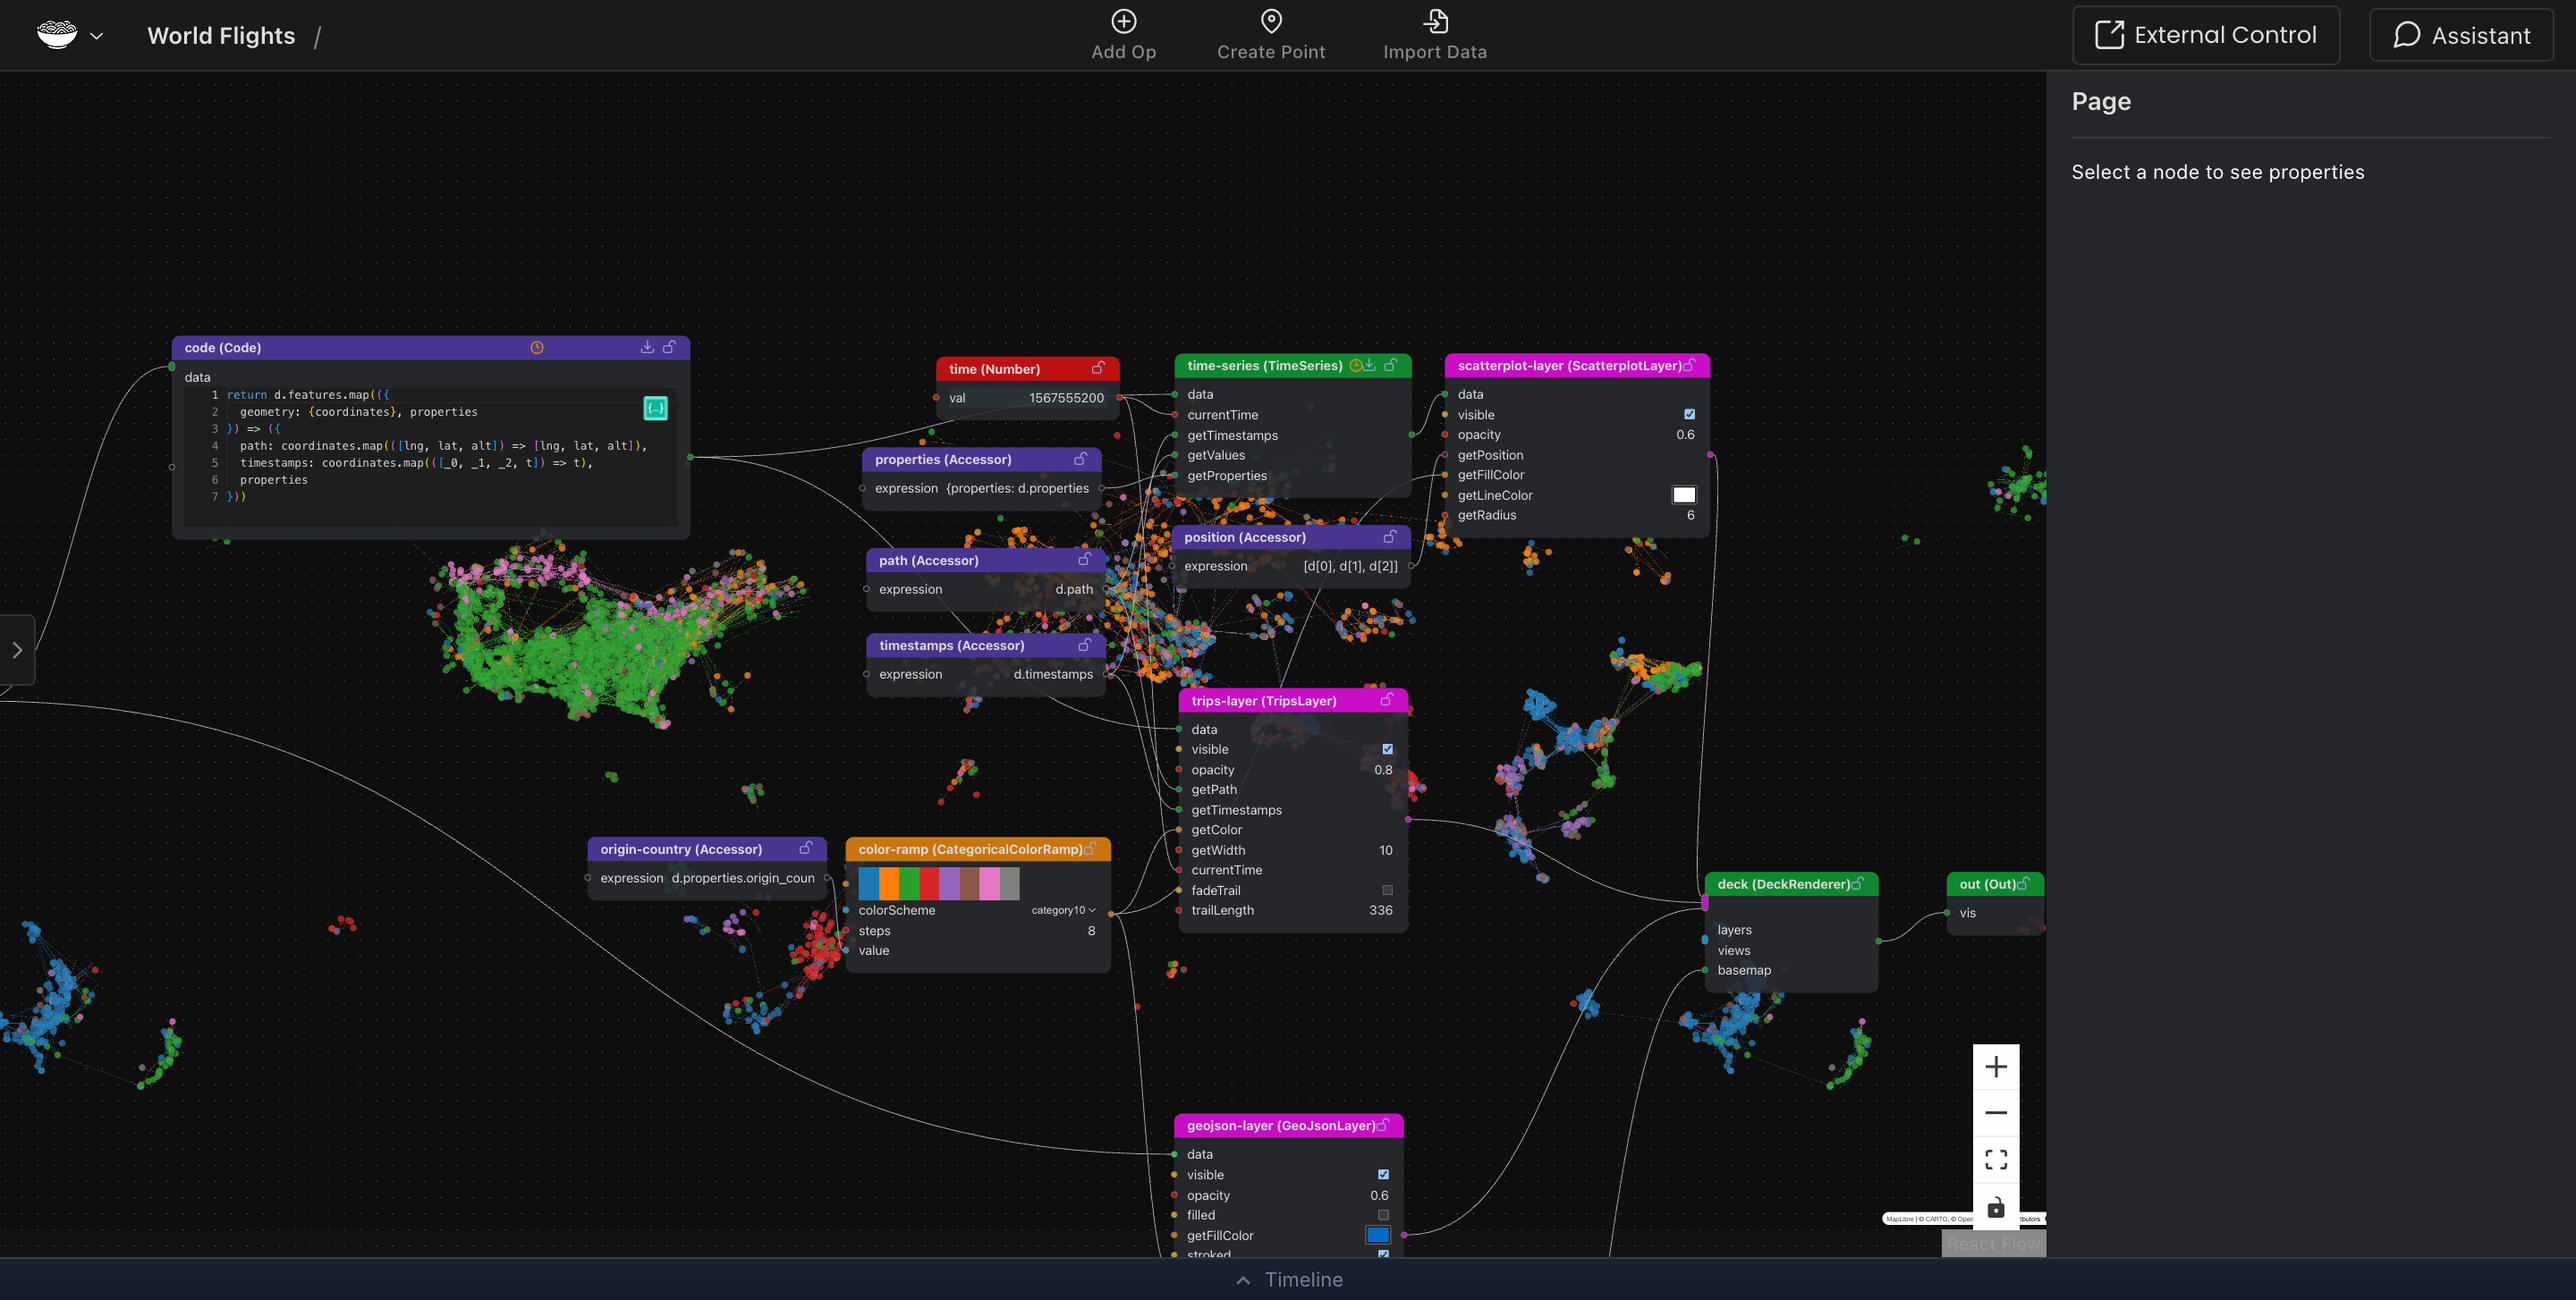
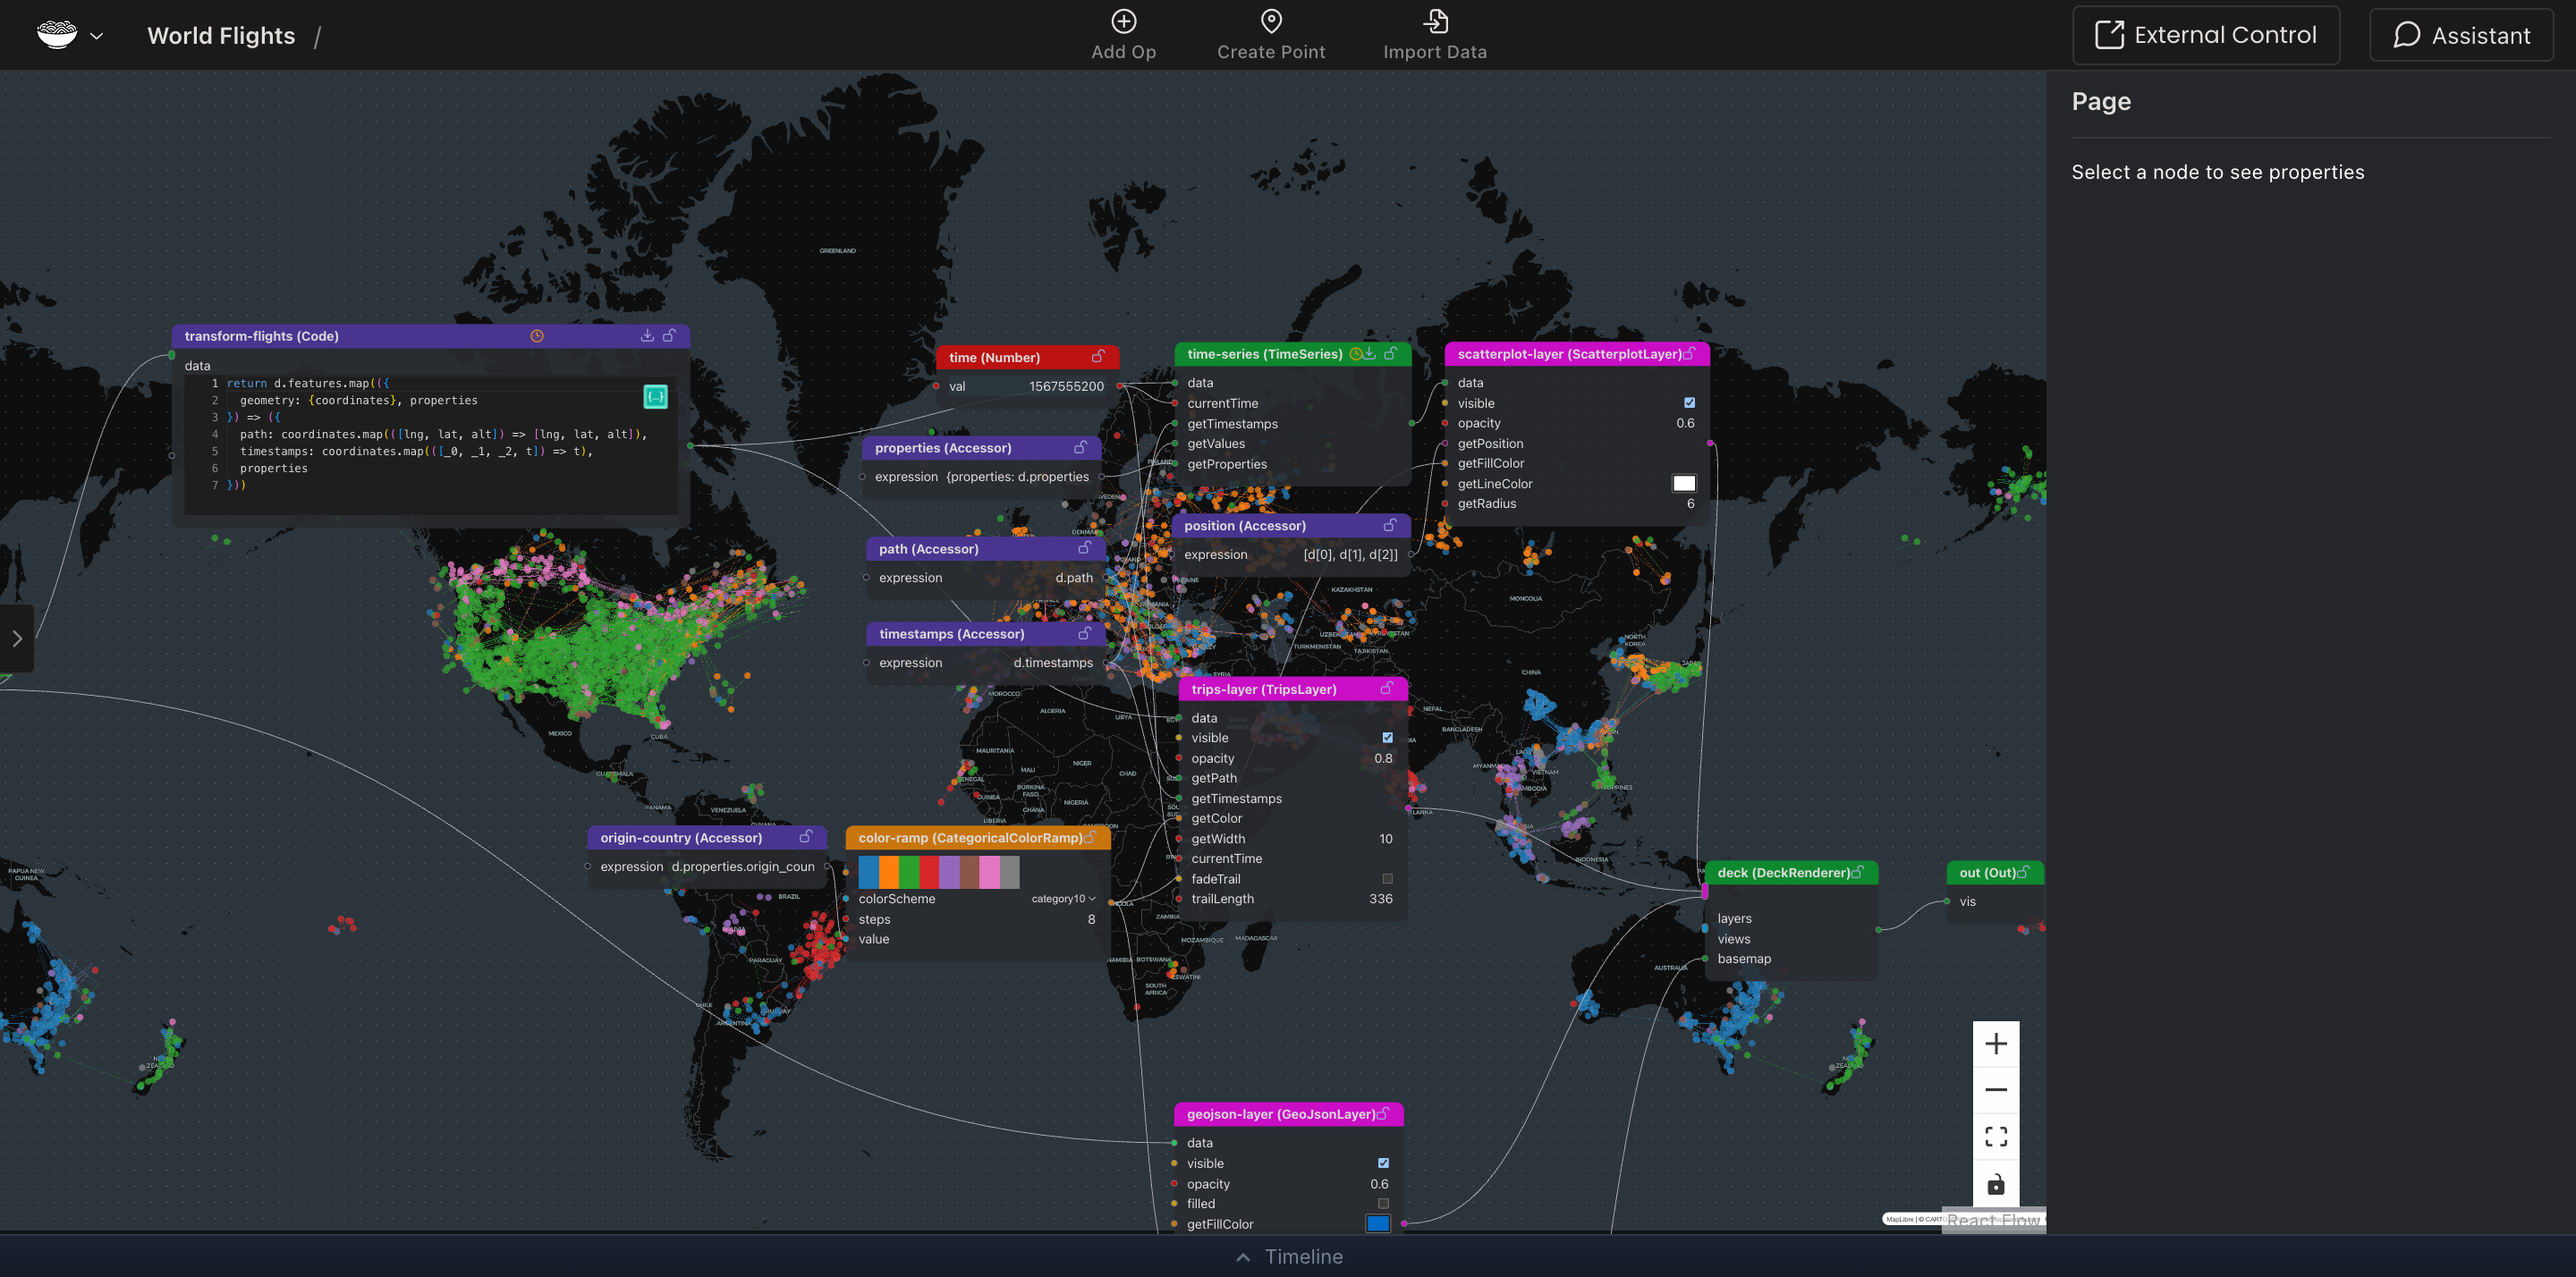
Rename generic node IDs to semantic names in example projects
Renamed 14 generic node IDs (e.g., duckdb-0, accessor-2) to semantic names
across 5 example projects for improved readability and maintainability.

Changes:
- chargers: 8 nodes renamed (charger-query, charger-bounds, charger-points, etc.)
- orbit: 3 nodes renamed (camera, scene, dummy-data)
- nyc-census: 1 node renamed (population-to-elevation)
- world-flights: 1 node renamed (transform-flights)
- custom-maplibre-layer-test: 1 node renamed (test-layer)

All node IDs, edge references, and timeline keys updated. Regenerated website
screenshots for chargers and world-flights examples to reflect new node names.

Added validate-examples.js script to enforce semantic naming in pre-commit hook.

diff --git a/scripts/validate-examples.js b/scripts/validate-examples.js
@@ -1,0 +1,70 @@
+#!/usr/bin/env node
+const fs = require('fs');
+const path = require('path');
+
+// Validate example projects have valid JSON and correct structure
+function validateExampleProject(projectPath) {
+  const errors = [];
+
+  try {
+    const data = JSON.parse(fs.readFileSync(projectPath, 'utf8'));
+
+    // Check required fields
+    if (!data.version) errors.push('Missing version field');
+    if (!data.nodes || !Array.isArray(data.nodes)) errors.push('Missing or invalid nodes array');
+    if (!data.edges || !Array.isArray(data.edges)) errors.push('Missing or invalid edges array');
+
+    // Validate node IDs exist
+    const nodeIds = new Set(data.nodes.map(n => n.id));
+
+    // Validate edges reference existing nodes
+    data.edges.forEach((edge, i) => {
+      if (!nodeIds.has(edge.source)) {
+        errors.push(`Edge ${i}: source "${edge.source}" not found in nodes`);
+      }
+      if (!nodeIds.has(edge.target)) {
+        errors.push(`Edge ${i}: target "${edge.target}" not found in nodes`);
+      }
+    });
+
+    // Check for generic node names (pattern: /name-\d+)
+    const genericPattern = /-\d+$/;
+    data.nodes.forEach(node => {
+      const nodeName = node.id.replace(/^\//, '');
+      if (genericPattern.test(nodeName)) {
+        errors.push(`Node "${node.id}" has generic name (ends with -<number>)`);
+      }
+    });
+
+  } catch (err) {
+    errors.push(`Failed to parse JSON: ${err.message}`);
+  }
+
+  return errors;
+}
+
+// Get all example projects
+const examplesDir = path.join(__dirname, '../noodles-editor/src/examples');
+const projects = fs.readdirSync(examplesDir)
+  .map(dir => path.join(examplesDir, dir, 'noodles.json'))
+  .filter(p => fs.existsSync(p));
+
+let hasErrors = false;
+
+projects.forEach(projectPath => {
+  const projectName = path.basename(path.dirname(projectPath));
+  const errors = validateExampleProject(projectPath);
+
+  if (errors.length > 0) {
+    hasErrors = true;
+    console.error(`\n❌ ${projectName}:`);
+    errors.forEach(err => console.error(`   - ${err}`));
+  }
+});
+
+if (!hasErrors) {
+  console.log('✓ All example projects are valid');
+  process.exit(0);
+} else {
+  process.exit(1);
+}
